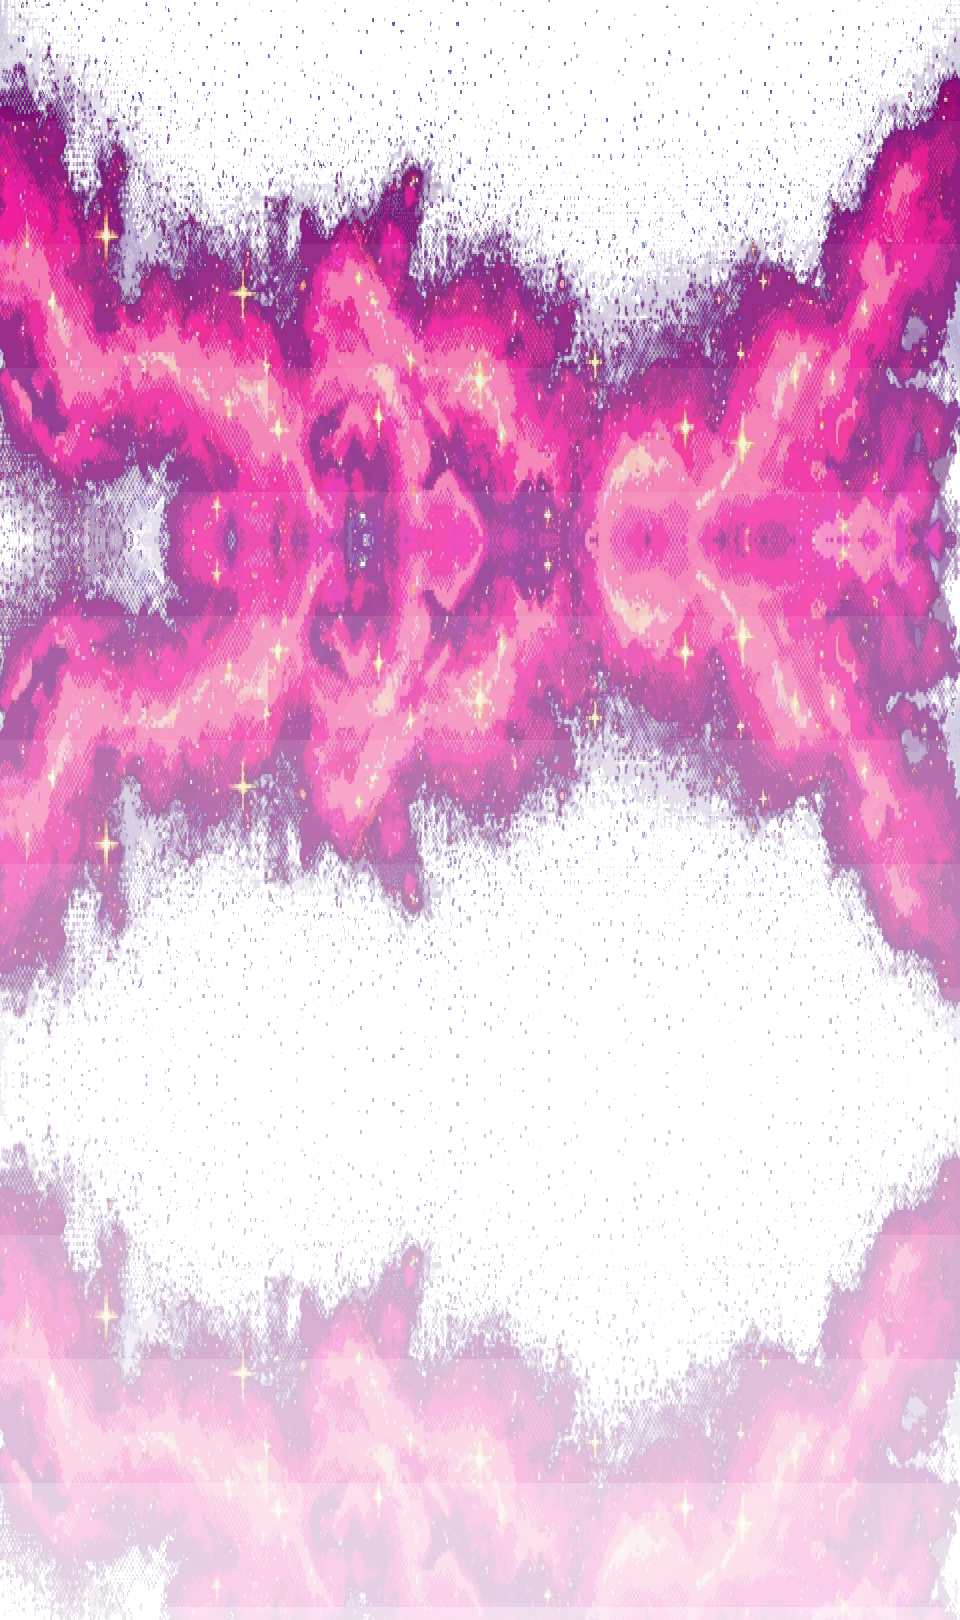
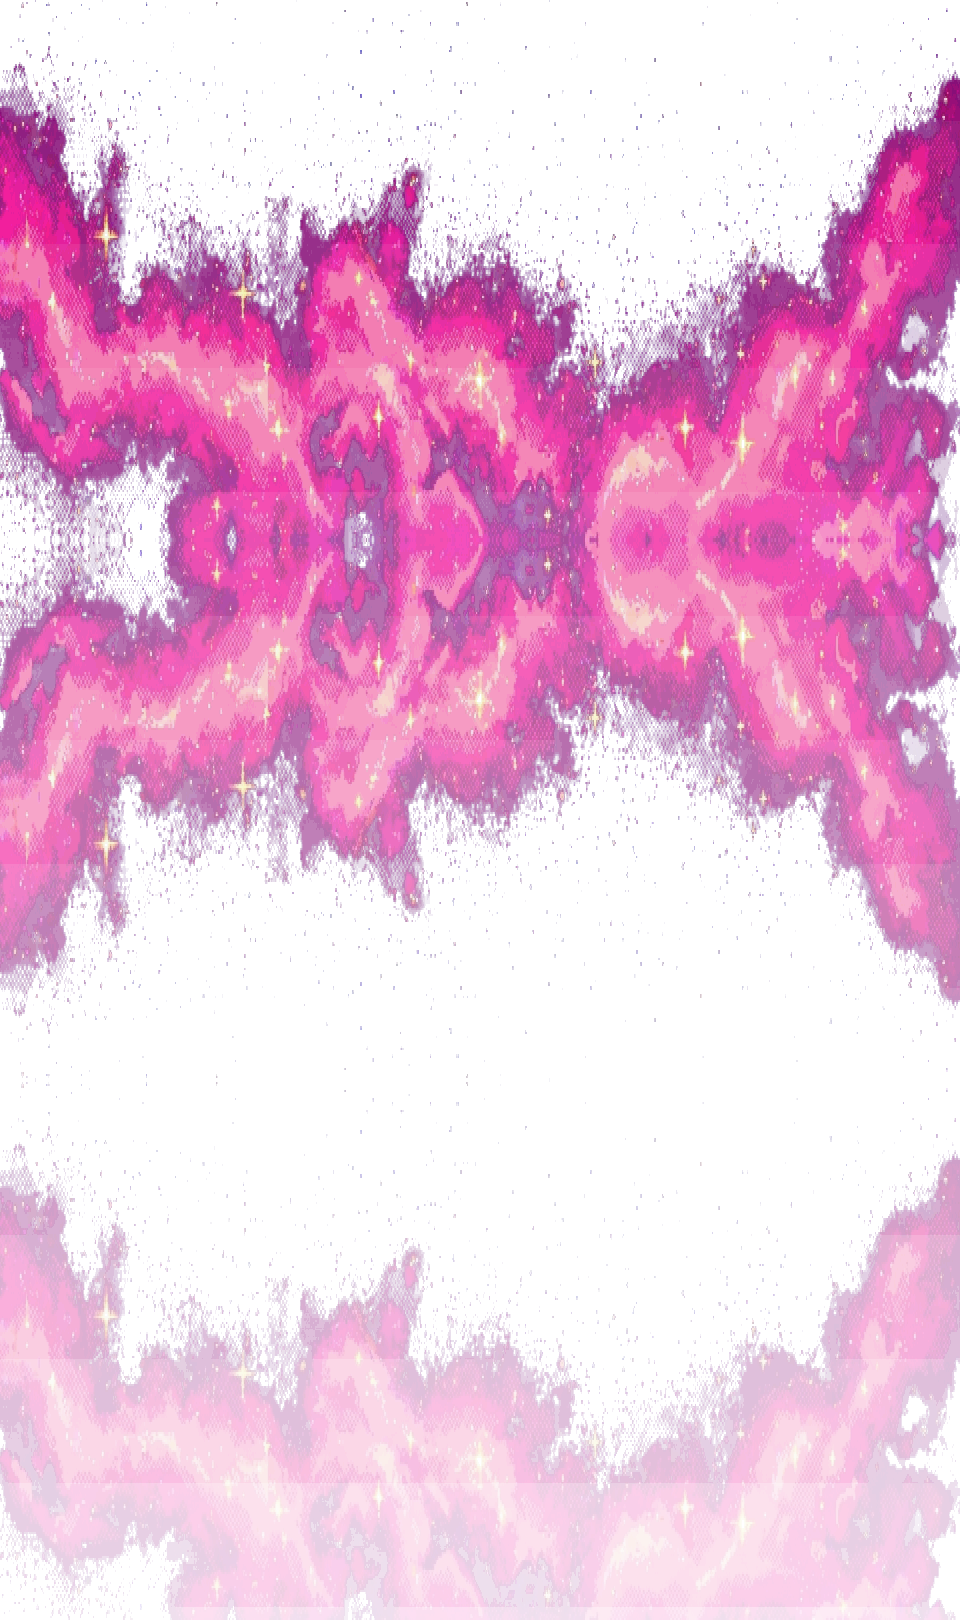
art(ch6): nebulosas parallax depuradas — solo núcleos cálidos, dieta horneada en el script
floor 56 + filtro de tono (r>g) elimina el velo turbio mauve/oliva; la
cuantización/posterize ahora vive en build_ch6_bg.py (no como paso manual
que un re-run pueda pisar). Set completo ~1.1MB.

diff --git a/scripts/build_ch6_bg.py b/scripts/build_ch6_bg.py
@@ -162,10 +162,39 @@ def to_alpha(img, boost=6.0, alpha_mul=1.0, floor=0):
             op[x, y] = (c[0], c[1], c[2], a)
     return out
 
-# banda de nebulosa de la base (evita el horizonte cian de abajo)
+# banda de nebulosa de la base (evita el horizonte cian de abajo).
+# floor alto (56): solo los núcleos brillantes rosas pasan — sin el velo turbio
+# mauve/oliva que arrastraba floor=34 (QA 2026-07-09b). Además filtro de tono:
+# solo píxeles cálidos (r > g) — descarta restos verdosos/oliva de estrellas.
 band = bg.crop((0, 90, W, 90 + H // 2)).resize((W, H), Image.BOX)
-neb_t = vfade(mirror_stack(to_alpha(band, boost=4.5, alpha_mul=0.8, floor=34), 3), 1.0, 0.18)  # 960x1620
+neb_raw = to_alpha(band, boost=4.0, alpha_mul=0.75, floor=56)
+np_ = neb_raw.load()
+for y in range(neb_raw.height):
+    for x in range(neb_raw.width):
+        r, g, b, a = np_[x, y]
+        if a and g >= r:
+            np_[x, y] = (r, g, b, 0)
+neb_t = vfade(mirror_stack(neb_raw, 3), 1.0, 0.18)  # 960x1620
 neb_t.save(f"{ASSETS}/ch6-bg-nebulae-mid-t.png", optimize=True)
+
+# ── 4. dieta de peso (horneada en el script — NO como paso manual) ───────────
+# bg/tall: paleta adaptativa 256 con dither. nebulosas: posterize 4bit + poda
+# de alpha débil. Presupuesto test: ch6-bg ≤300KB (tests/assets/ch6-assets T4).
+for name in ("ch6-bg.png", "ch6-bg-tall.png"):
+    im = Image.open(f"{ASSETS}/{name}").convert("RGB")
+    im.quantize(colors=256, method=Image.MEDIANCUT, dither=Image.FLOYDSTEINBERG).save(
+        f"{ASSETS}/{name}", optimize=True)
+
+neb_img = Image.open(f"{ASSETS}/ch6-bg-nebulae-mid-t.png")
+np2 = neb_img.load()
+for y in range(neb_img.height):
+    for x in range(neb_img.width):
+        r, g, b, a = np2[x, y]
+        if a < 24:
+            np2[x, y] = (0, 0, 0, 0)
+        else:
+            np2[x, y] = (r >> 4 << 4, g >> 4 << 4, b >> 4 << 4, a >> 4 << 4)
+neb_img.save(f"{ASSETS}/ch6-bg-nebulae-mid-t.png", optimize=True)
 
 for f in ["ch6-bg.png", "ch6-bg-tall.png", "ch6-bg-stars-far-t.png", "ch6-bg-nebulae-mid-t.png"]:
     p = f"{ASSETS}/{f}"
